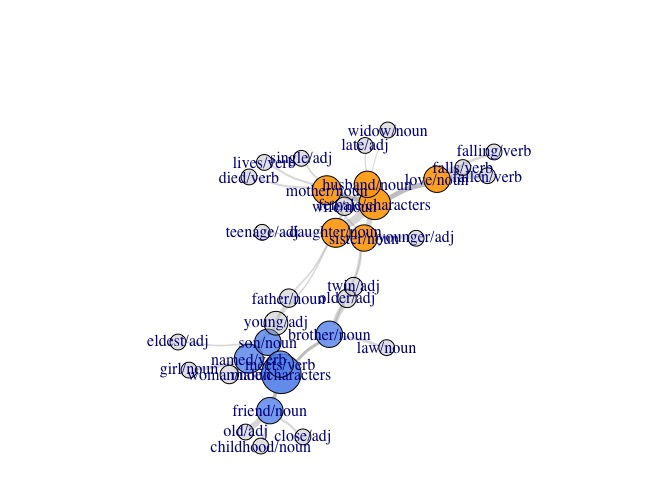
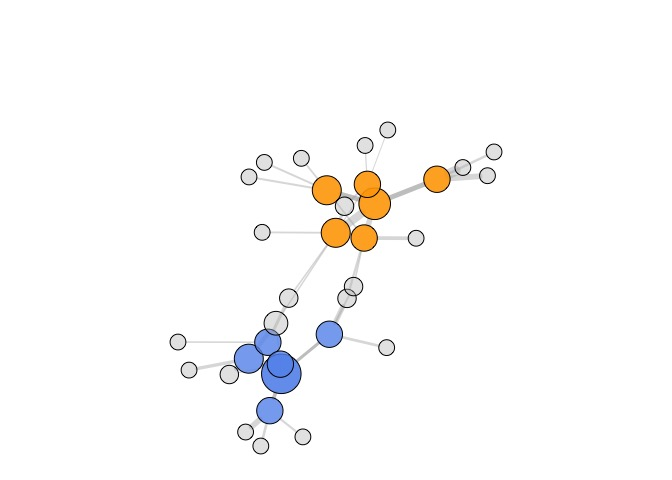
update README.md

diff --git a/docs/README.md b/docs/README.md
@@ -474,10 +474,20 @@ graph_demo = grapherdemo(5, token_filter3('all', 1940, 2020, token.all))
 ``` r
 g_demo = graph_demo[[1]]
 #visIgraph(g_demo)
-plot(g_demo)
+plot(g_demo, vertex.label = NA, edge.curved=FALSE)
 ```
 
 ![](README_files/figure-gfm/unnamed-chunk-12-1.jpeg)<!-- -->
+
+``` r
+#tkplot(g_demo)
+#coords_demo <- tkplot.getcoords(1)
+#save(coords_demo, file = 'coords_demo.RData')
+load(file= 'coords_demo.RData')
+plot(g_demo, vertex.label.cex = 0.6, edge.curved=FALSE, layout = coords_demo)
+```
+
+![](README_files/figure-gfm/unnamed-chunk-12-2.jpeg)<!-- -->
 
 ## Complete Graph
 
